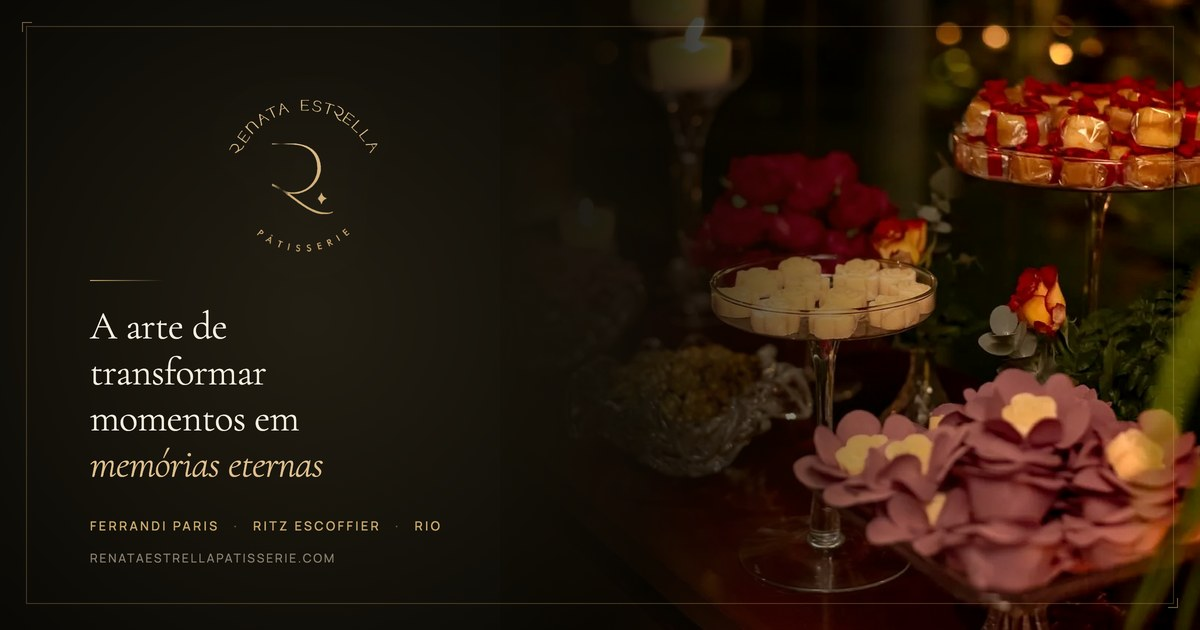
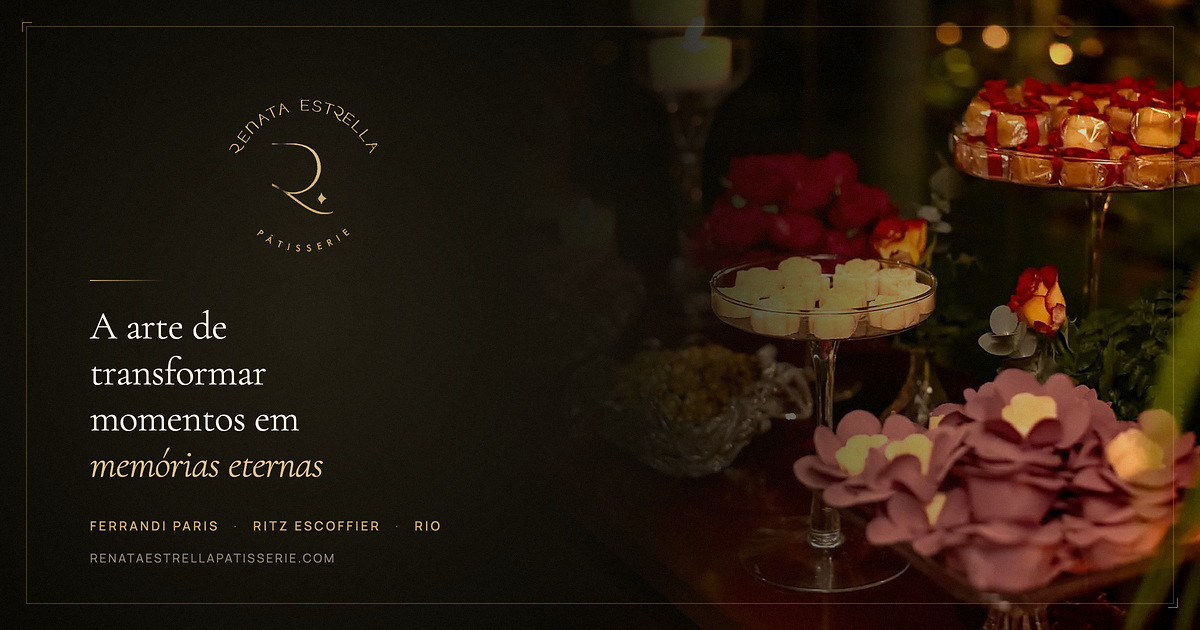
Improve share card image quality
Bake the photo's brightness and saturation into the panel JPEG instead of
applying a CSS filter over an already-lossy webp, sharpen at native crop
resolution before scaling, and export at quality 93 with 4:4:4 chroma so
the reds and golds stop smearing. Add fine grain to break up JPEG banding
in the dark gradient.

Bump the og:image cache-buster to v=3.

diff --git a/index.html b/index.html
@@ -18,7 +18,7 @@
   <meta property="og:description" content="Criações exclusivas para momentos que merecem ser eternizados. Formação: Ferrandi Paris · Ritz Escoffier · Le Cordon Bleu">
   <meta property="og:type" content="website">
   <meta property="og:url" content="https://renataestrellapatisserie.com/">
-  <meta property="og:image" content="https://renataestrellapatisserie.com/og-image.jpg?v=2">
+  <meta property="og:image" content="https://renataestrellapatisserie.com/og-image.jpg?v=3">
   <meta property="og:image:width" content="1200">
   <meta property="og:image:height" content="630">
   <meta property="og:image:alt" content="Renata Estrella Pâtisserie — mesa de doces à luz de velas com cristais e rosas">
@@ -30,7 +30,7 @@
   <meta name="twitter:card" content="summary_large_image">
   <meta name="twitter:title" content="Renata — Pâtisserie de Luxo">
   <meta name="twitter:description" content="Criações exclusivas para momentos que merecem ser eternizados.">
-  <meta name="twitter:image" content="https://renataestrellapatisserie.com/og-image.jpg?v=2">
+  <meta name="twitter:image" content="https://renataestrellapatisserie.com/og-image.jpg?v=3">
 
   <!-- Fonts -->
   <link rel="preconnect" href="https://fonts.googleapis.com">
